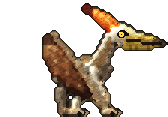
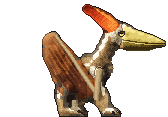
Perched Pteranodon painted in HD: the wing folded on its knuckles
The folded wing is a bundle of membrane in pleats, rounded, its long
finger and the forearm it walks on reading through as bone; furred
neck and body, the crest lit as a plate darkening to its tip, the beak's
mouth drawn darker (also for the other beaks).

Changed region(s): [[0.2381, 0.0256, 1.0, 1.0]]

diff --git a/internal/dinopaint/ptero.go b/internal/dinopaint/ptero.go
@@ -186,3 +186,86 @@ func quetzalFly() *Species {
 		},
 	}
 }
+
+func init() { Register(pteroPerch()) }
+
+var (
+	pteroDarkMem = []uint32{0x140a08, 0x20100c, 0x2e1610, 0x3e1e14, 0x502818, 0x64321e, 0x783e24, 0x8c4c2c}
+	pteroGrey    = []uint32{0x1c1612, 0x2a221c, 0x3a3026, 0x4c4032, 0x5e5040, 0x726250, 0x887662, 0x9e8c76}
+)
+
+func pteroPerch() *Species {
+	finger := []float64{32.4, 31.5, 29.5, 27.4, 26.6, 23.2, 23.6, 18.6, 20.4, 14.4, 18.4, 11.6}
+	arm := []float64{33.2, 23.5, 32.6, 28.5, 32.3, 33.5}
+	wing := Poly(14, 12, 17.5, 10.4, 19.8, 11.2, 24.4, 17, 31.6, 26.6, 33.2, 31, 30.5, 33.6, 22.5, 33.2, 19, 30, 15, 22, 13.6, 16)
+	body := Blend(1.6,
+		Ellipse(30.5, 25, 5.2, 4.8, 0),
+		Cone(31.6, 21.5, 3.6, 36.2, 13, 2.4),
+		Ellipse(38, 11.8, 2.8, 2.4, 0),
+	)
+	hind := Union(Cone(22.4, 29.2, 2.1, 20.6, 33, 1.3), Cone(20.6, 33, 1.2, 20.8, 36.4, 1.0), Cone(20.4, 37, 0.9, 26.6, 37.3, 0.6))
+	hind2 := Union(Cone(25.6, 31.5, 1.3, 25, 35.2, 1.0), Cone(24.6, 36.2, 0.8, 28.6, 36.8, 0.55))
+	foreArm := Union(Cone(33.2, 24, 1.9, 32.5, 33, 1.4), Cone(32.5, 33, 1.3, 34.6, 36, 1.0), Cone(34.2, 37, 0.9, 39.6, 37.4, 0.6))
+	crest := Poly(27, 1.6, 29.6, 1.4, 33, 4, 37, 7, 39.5, 8, 38.5, 10.4, 36.5, 10.6, 35, 9.8, 31.5, 7.6, 28, 4.6)
+	beak := Poly(41.6, 8.6, 44.6, 9.8, 48, 10.8, 51.5, 12, 54, 13.2, 55.6, 14.5, 53.5, 15.6, 50, 16, 45, 16.2, 41, 16, 40.8, 12.4)
+	return &Species{
+		Name:        "ptero_perch",
+		GuideDetail: 0.4,
+		Ink:         34,
+		Materials: []Material{
+			{Name: "membrane", Seeds: []uint32{0x93552f, 0x764426, 0xb47642, 0x673b21, 0x905e35, 0xa67b4b, 0xcf9a5e, 0x5c3824, 0x402719}, Ramp: pteroMembrane, Relief: 0.05},
+			{Name: "dark", Seeds: []uint32{0x6e3a22, 0x4a2618, 0x582e1b, 0x3b1e13, 0x4d2918, 0x3e2013, 0x2c1610, 0x23120d, 0x341b11, 0x29150d, 0x1f0f0b}, Ramp: pteroDarkMem, Relief: 0.05},
+			{Name: "tan", Seeds: []uint32{0xb08a58, 0x8e6840, 0x86725a, 0x7b613e, 0x6a5038, 0x6c4c30, 0x948871, 0xa79e8b, 0x8f8877, 0x7f7461, 0x989488, 0xaca186, 0x9e8c6a, 0x867051, 0x695339, 0x967652, 0xc0a074}, Ramp: pteroTan},
+			{Name: "cream", Seeds: []uint32{0xfdf6e2, 0xeee2c6, 0xd4c2a2, 0xe2c898, 0xf6e6c0, 0xb09a7c}, Ramp: pteroCream},
+			{Name: "grey", Seeds: []uint32{0x5a4a3a, 0x504436, 0x4a4134, 0x362c23, 0x3a3026, 0x726451, 0x9b9381}, Ramp: pteroGrey},
+			{Name: "crest", Seeds: []uint32{0xffc050, 0xf88a2e, 0xe0541e, 0xb03018, 0x6e2418}, Ramp: pteroCrest, Region: crest, Over: true,
+				Only: []string{"cream", "tan", "grey"}},
+			{Name: "beak", Seeds: []uint32{0xf8e69a, 0xe8c860, 0xc8a240, 0x9c7a2c, 0x6e5420, 0xffd84a}, Ramp: pteroBeak, Relief: 0.3, Region: beak, Over: true,
+				Only: []string{"cream", "tan", "grey"}},
+		},
+		Recolor: []Recolor{
+			{Region: wing, From: []string{"tan", "cream"}, To: "membrane"},                 // the bones are painted again
+			{Region: Circle(40.5, 11.2, 1.3), From: []string{"beak", "grey"}, To: "cream"}, // so is the eye
+		},
+		Parts: []Part{
+			{Name: "hind2", Shape: hind2, Far: true, Round: 1, Soft: 0.5, Scale: 0.6},
+			{Name: "body", Shape: body, Round: 3.6, Soft: 0.8, Muscles: []Muscle{
+				Mu(30.5, 24, 3.6, 3.4, 0, 0.8), // the chest
+				Mu(38, 11.2, 1.8, 1.4, 0, 0.5), // the head
+			}},
+			{Name: "crest", Shape: crest, Round: 1, Soft: 0.5, Scale: 0.6},
+			{Name: "beak", Shape: beak, Round: 1.1, Soft: 0.4, Scale: 0.5},
+			{Name: "wing", Shape: wing, Round: 2.4, Soft: 0.8, Scale: 0.8, Muscles: []Muscle{Mu(19, 17, 3, 4.5, -0.6, 0.8)}},
+			{Name: "hind", Shape: hind, Round: 1.2, Soft: 0.5, Scale: 0.6, Muscles: []Muscle{Mu(22, 30, 1.6, 1.6, 0, 0.5)}},
+			{Name: "foreArm", Shape: foreArm, Round: 1.4, Soft: 0.5, Scale: 0.6},
+		},
+		Skin: Skin{Flank: 1.0, Back: 1.2, Belly: 0.9, BackDepth: 1, BellyDepth: 1, Relief: 0.6, Seed: 61},
+		Folds: []Fold{
+			{Pts: []float64{15.5, 15, 19.5, 21.5, 24.5, 28.5}, N: 4, DX: 1.3, DY: -0.5, Depth: 1.1}, // the folded membrane's pleats
+			{Pts: []float64{15, 19, 18, 25, 21.5, 30.5}, N: 2, DX: 1.1, DY: -0.6, Depth: 0.8},
+		},
+		Details: func(p *Painter) {
+			p.Plumage(&Plumage{Seed: 31, Edge: 0.35, Tracts: []Tract{
+				{Name: "fur", Region: Poly(26, 13, 37.5, 9.5, 39, 14, 37.5, 26, 34, 31, 26, 31), Parts: []string{"body"},
+					Flow: Along(37.5, 10.5, 34.5, 16, 31.5, 21, 29.5, 26, 28.5, 31), Len: 1.3, Wid: 0.6, Hair: true, Relief: 0.8, Fluff: 0.3, Snap: true},
+			}})
+			p.Membrane(MembraneSpec{Region: wing, Mat: []string{"membrane", "dark"},
+				Fibres: Along(finger...), Gap: 0.9, Fibre: 0.05, Flat: 0.15,
+				Camber: Path(pts3(finger, 0)...), Glow: 0.5, GlowW: 1.4, GlowRamp: pteroGlow,
+				Free: Poly(10, 8, 18, 9, 22, 30, 12, 34),
+				Bones: []Bone{
+					{Pts: finger, R: 0.8, R1: 0.45, Ramp: pteroBone},
+					{Pts: arm, R: 1.2, R1: 0.95, Ramp: pteroBone, Shade: -0.05},
+				}, Seed: 13})
+			p.Plane(PlaneSpec{Region: crest, Mat: []string{"crest"}, Tilt: 0.9, Angle: -0.72, Gap: 1.0, Lines: 0.06,
+				FromX: 37.5, FromY: 8.5, Fall: 0.05, Seed: 15})
+			p.Beak(BeakSpec{Mat: "beak", Ridge: []float64{41.8, 8.8, 46, 10.3, 51, 11.9, 55.4, 14.2}, Mouth: []float64{41.6, 13.4, 47, 14.2, 54.4, 14.6},
+				Gloss: 0.22, LowerShadow: 0.4, GrainSeed: 11})
+			p.Eye(EyeSpec{X: 40.5, Y: 11.3, R: 0.75, Iris: []uint32{0x5a3a08, 0x8e600c, 0xc89216, 0xf0c22e, 0xffda54, 0xffec96}, Lid: 0.18, Squint: 1.15})
+			// The claws of the feet and the hand on the ground.
+			for _, c := range [][4]float64{{26.2, 37.1, 27.7, 37.7}, {28.2, 36.6, 29.6, 37.3}, {39.2, 37.2, 40.6, 37.8}, {37.6, 37.4, 38.6, 38.2}} {
+				p.Claw(c[0], c[1], c[2], c[3], 0.55, 0.15, anzuClaws)
+			}
+		},
+	}
+}

diff --git a/internal/dinopaint/beak.go b/internal/dinopaint/beak.go
@@ -66,7 +66,7 @@ func (p *Painter) Beak(b BeakSpec) {
 			v -= tipDark * smoothstep(0.78, 1, u)
 			switch {
 			case math.Abs(dm) < 0.2:
-				v -= 0.35 // the line of the mouth
+				v -= 0.5 // the line of the mouth
 			case dm > 0 && dm < 0.55:
 				v += 0.08 // the lower beak's lit edge
 			case dm > 0:
